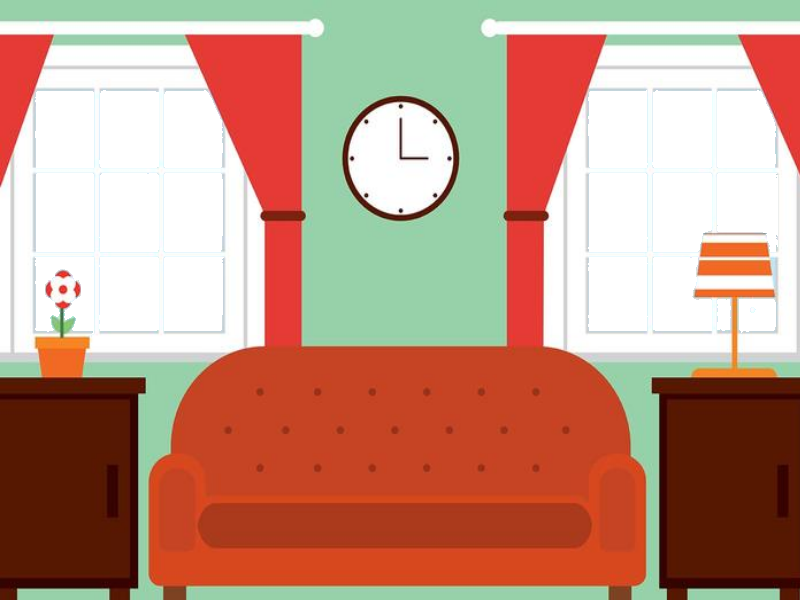
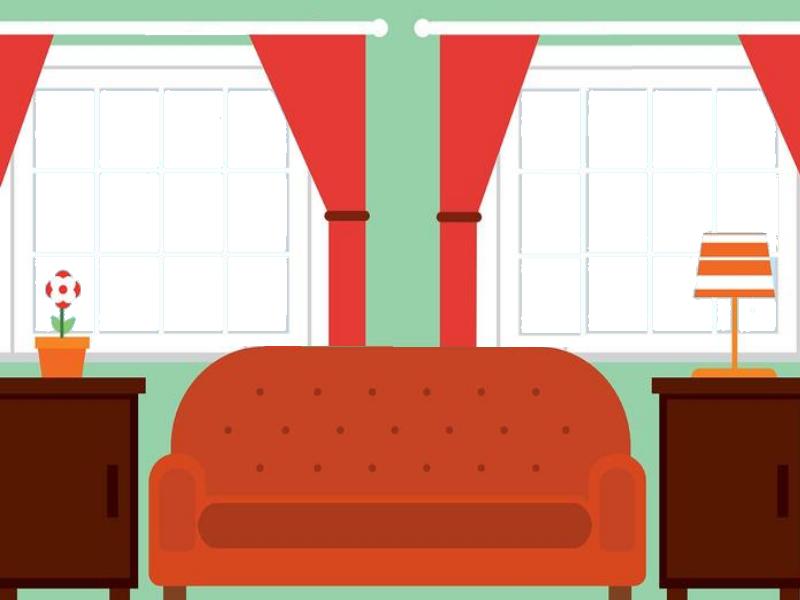
time to rain

Changed region(s): [[0.2188, 0.03, 0.7812, 0.6]]

diff --git a/snow5.py b/snow5.py
@@ -4,7 +4,7 @@
 # Pygame swap text with another text
 # https://stackoverflow.com/questions/60944070/pygame-swap-text-with-another-text/60953697#60953697
 #
-# GitHub - PyGameExamplesAndAnswers - Draw 2D - list_of_particles
+# GitHub - PyGameExamplesAndAnswers - Draw 2D - snow_flakes_list
 # https://github.com/Rabbid76/PyGameExamplesAndAnswers/blob/master/documentation/pygame/pygame_2D.md
 
 import pygame
@@ -13,40 +13,60 @@ import sys
 
 
 pygame.mixer.init()
-jingle = pygame.mixer.music.load("snow.mp3")
+pygame.mixer.music.load("snow.mp3")
+FPS = 30
+
+
 class Particle:
+    "Makes particles to appear on the screen"
+
     def __init__(self):
         "Setting up screen, clock and loading images"
 
         pygame.init()
-        self.screen = pygame.display.set_mode((800, 600))
+        
+        # the two main surfaces
+        self.screen = pygame.display.set_mode((800, 600), pygame.RESIZABLE)
+        self.new_surface = pygame.Surface((800, 600))
+
         self.frame_rate = pygame.time.Clock().tick
-        self.snow = pygame.image.load("snow6.png").convert()
+        # loading images for the script
+        self.bg = pygame.image.load("snow6.png").convert()
         self.cloud = pygame.image.load("cloud.png")
-        self.window2 = pygame.image.load("snow5.png")
-        self.list_of_particles = []
+        self.fg = pygame.image.load("snow7.png")
+        self.snow_flakes_list = []
+        self.rain_drops_list = []
+        self.resize = 0
 
     def update(self):
         "How to quit the window"
-        self.frame_rate(60)
+        self.frame_rate(FPS)
         for event in pygame.event.get():
             if event.type == pygame.QUIT:
                 self.run = False
+            if event.type == pygame.VIDEORESIZE:
+                self.resize = 1
+                self.w, self.h = event.w, event.h
         self.images_display()
 
     def images_display(self):
         "Make snow fall down - blitting images and calling the flake generator"
-
-        self.screen.blit(self.snow, (0, 50))
+        self.new_surface.blit(self.bg, (0, 80))
         self.snow_flakes_generator()
-        self.screen.blit(self.cloud, (-110,-80))
-        self.screen.blit(self.cloud, (-50, 250))
-        self.screen.blit(self.cloud, (450, 250))
-        self.screen.blit(self.window2, (0, 0))
+        # self.new_surface.blit(self.cloud, (-110,-100))
+        self.new_surface.blit(self.cloud, (-50, 290))
+        self.new_surface.blit(self.cloud, (450, 290))
+        self.new_surface.blit(self.fg, (0, 0))
+        if self.resize:
+            self.screen.blit(pygame.transform.scale(self.new_surface, (self.w, self.h)), (0, 0))
+        else:
+            self.screen.blit(self.new_surface, (0, 0))
         pygame.display.flip()
 
     def mainloop(self):
         "A call to the self.update method to run stuffs"
+        
+        # Start the mp3 loaded at the beginning
         pygame.mixer.music.play()
         self.run = True
         while self.run:
@@ -56,54 +76,67 @@ class Particle:
 
     # the surface with the snow as a background
 
-
-    def generate_one_particle(self):
-        starting_pos = [random_pos(), 50]
+    def generate_one_particle(self, dim):
+        direction = [random_pos(), random.randint(30,50)]
         # direction of x and next y pos incremented of 0.01
-        move_pos = [random.randint(0, 20) / 10 - 1, 2]
+        # change the 2 to change the way the snow flake falls
+        angle_vel = [random.randint(0, 20) / 10 - 1, 2]
         radius = random.randint(4, 6)
-        return [starting_pos, move_pos, radius]
-
-
+        if dim == 4:
+            angle_vel = [0, 6]
+            radius = 1
+        return [direction, angle_vel, radius]
 
     def snow_flakes_generator(self):
         "circles move from random start position at the top until bottom and the disappear"
-        
-        self.list_of_particles.append(self.generate_one_particle())
+        self.snow()
+        self.rain()
 
-        # Every particle  moves... if list_of_particles[2] (the radius) is >= than 0 it is removed
-        for particle in self.list_of_particles[:]:
+    def snow(self):
+        self.snow_flakes_list.append(self.generate_one_particle(6))
+        self.falling_elements(self.snow_flakes_list)
+        
+    def rain(self):
+        for drop in range(15): # 5 drops for frame
+            self.rain_drops_list.append(self.generate_one_particle(4))
+
+        self.falling_elements(self.rain_drops_list)
+
+    def falling_elements(self, elements_list):
+
+        # Every particle  moves... if snow_flakes_list[2] (the radius) is >= than 0 it is removed
+        for particle in elements_list[:]:
             
             # parameters for new position (aka speed) and shrinking
             direction = particle[1][0]      # random direction fixed
-            velocity = particle[1][1]  # get the next position on the y axes
+            velocity = particle[1][1]  # how fast the flake falls
             gravity = 0.01            # how fast it falls
             melting = 0.005         # how fast it shrinks
 
-            # the starting point changes going right or left
+            # DIRECTION
             particle[0][0] += direction # increase the x position of an angle (to the right or left)
             particle[0][1] +=  velocity # the y movement going down speed fixed 2
                                             # but it is increased of 0.01 down here, so it goes down at the same speed
             particle[2] -= melting # the snowflake shriks
             particle[1][1] += gravity # * random.randint(-3, 6) # increase down speed a bit
-            if particle[2] <= 0: # when the radius is 0 it is removed, so we do not see it anymore and it's not in the memory
-                self.list_of_particles.remove(particle)
+            if particle[0][1] > 330: # when the radius is 0 it is removed, so we do not see it anymore and it's not in the memory
+                elements_list.remove(particle)
 
         # draws a circle on the screen white, at x y corrds and with a ray of particle[2]
-        for particle in self.list_of_particles:
+        for particle in elements_list:
             pos = particle[0][0]
             speed = particle[0][1]
             radius = particle[2]
             # circle: surface, color, pos, radius
             pygame.draw.circle(
-            	self.screen,
-            	(255, 244, 255), # color
+            	self.new_surface,
+            	(255, 255, 255), # color
             	(
             		round(pos), # Pos x, y
             		round(speed)), # direction / speed
             		round(radius)) # radius
 def random_pos():
-	" to make a flame like list_of_particles [150, 20] # flame, so that all circles with start at the same point"
+	" to make a flame like snow_flakes_list [150, 20] # flame, so that all circles with start at the same point"
 	return random.randint(30, 800)
 	# return 150
 

diff --git a/snow4.py b/snow4.py
@@ -13,40 +13,59 @@ import sys
 
 
 pygame.mixer.init()
-jingle = pygame.mixer.music.load("snow.mp3")
+pygame.mixer.music.load("snow.mp3")
+FPS = 60
+
+
 class Particle:
+    "Makes particles to appear on the screen"
+
     def __init__(self):
         "Setting up screen, clock and loading images"
 
         pygame.init()
-        self.screen = pygame.display.set_mode((800, 600))
+        
+        # the two main surfaces
+        self.screen = pygame.display.set_mode((800, 600), pygame.RESIZABLE)
+        self.new_surface = pygame.Surface((800, 600))
+
         self.frame_rate = pygame.time.Clock().tick
-        self.snow = pygame.image.load("snow6.png").convert()
+        # loading images for the script
+        self.bg = pygame.image.load("snow6.png").convert()
         self.cloud = pygame.image.load("cloud.png")
-        self.window2 = pygame.image.load("snow5.png")
+        self.fg = pygame.image.load("snow7.png")
         self.list_of_particles = []
+        self.resize = 0
 
     def update(self):
         "How to quit the window"
-        self.frame_rate(60)
+        self.frame_rate(FPS)
         for event in pygame.event.get():
             if event.type == pygame.QUIT:
                 self.run = False
+            if event.type == pygame.VIDEORESIZE:
+                self.resize = 1
+                self.w, self.h = event.w, event.h
         self.images_display()
 
     def images_display(self):
         "Make snow fall down - blitting images and calling the flake generator"
-
-        self.screen.blit(self.snow, (0, 50))
+        self.new_surface.blit(self.bg, (0, 80))
         self.snow_flakes_generator()
-        self.screen.blit(self.cloud, (-110,-80))
-        self.screen.blit(self.cloud, (-50, 250))
-        self.screen.blit(self.cloud, (450, 250))
-        self.screen.blit(self.window2, (0, 0))
+        # self.new_surface.blit(self.cloud, (-110,-100))
+        self.new_surface.blit(self.cloud, (-50, 290))
+        self.new_surface.blit(self.cloud, (450, 290))
+        self.new_surface.blit(self.fg, (0, 0))
+        if self.resize:
+            self.screen.blit(pygame.transform.scale(self.new_surface, (self.w, self.h)), (0, 0))
+        else:
+            self.screen.blit(self.new_surface, (0, 0))
         pygame.display.flip()
 
     def mainloop(self):
         "A call to the self.update method to run stuffs"
+        
+        # Start the mp3 loaded at the beginning
         pygame.mixer.music.play()
         self.run = True
         while self.run:
@@ -56,15 +75,13 @@ class Particle:
 
     # the surface with the snow as a background
 
-
     def generate_one_particle(self):
-        starting_pos = [random_pos(), 50]
+        direction = [random_pos(), 50]
         # direction of x and next y pos incremented of 0.01
-        move_pos = [random.randint(0, 20) / 10 - 1, 2]
+        # change the 2 to change the way the snow flake falls
+        velocity = [random.randint(0, 20) / 10 - 1, random.randint(2, 10)]
         radius = random.randint(4, 6)
-        return [starting_pos, move_pos, radius]
-
-
+        return [direction, velocity, radius]
 
     def snow_flakes_generator(self):
         "circles move from random start position at the top until bottom and the disappear"
@@ -76,17 +93,17 @@ class Particle:
             
             # parameters for new position (aka speed) and shrinking
             direction = particle[1][0]      # random direction fixed
-            velocity = particle[1][1]  # get the next position on the y axes
+            velocity = particle[1][1]  # how fast the flake falls
             gravity = 0.01            # how fast it falls
             melting = 0.005         # how fast it shrinks
 
-            # the starting point changes going right or left
+            # DIRECTION
             particle[0][0] += direction # increase the x position of an angle (to the right or left)
             particle[0][1] +=  velocity # the y movement going down speed fixed 2
                                             # but it is increased of 0.01 down here, so it goes down at the same speed
             particle[2] -= melting # the snowflake shriks
             particle[1][1] += gravity # * random.randint(-3, 6) # increase down speed a bit
-            if particle[2] <= 0: # when the radius is 0 it is removed, so we do not see it anymore and it's not in the memory
+            if particle[0][1] > 330: # when the radius is 0 it is removed, so we do not see it anymore and it's not in the memory
                 self.list_of_particles.remove(particle)
 
         # draws a circle on the screen white, at x y corrds and with a ray of particle[2]
@@ -96,8 +113,8 @@ class Particle:
             radius = particle[2]
             # circle: surface, color, pos, radius
             pygame.draw.circle(
-            	self.screen,
-            	(255, 244, 255), # color
+            	self.new_surface,
+            	(255, 255, 255), # color
             	(
             		round(pos), # Pos x, y
             		round(speed)), # direction / speed
